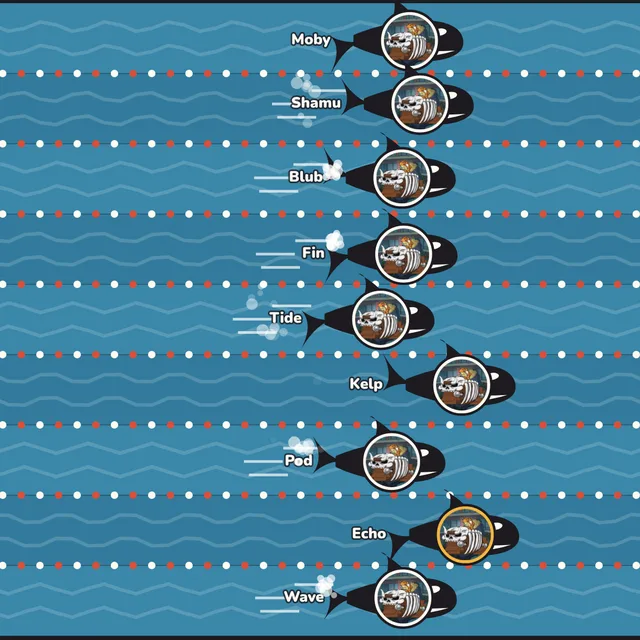
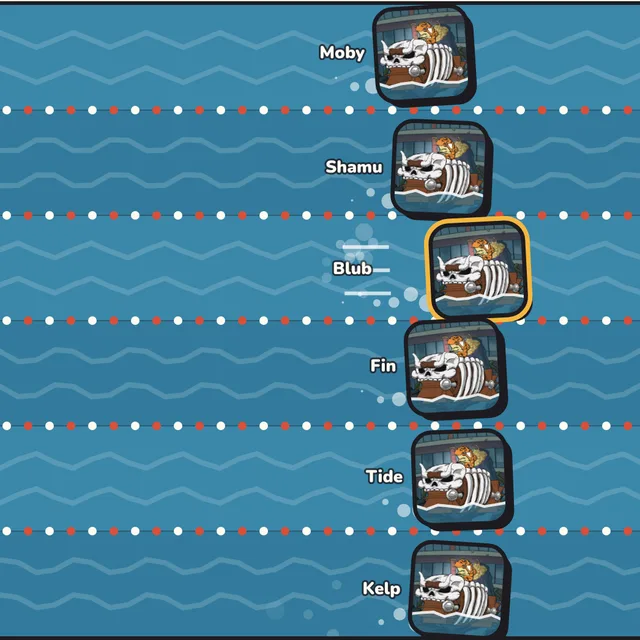
Orca Race: race the orca NFT art itself
Each racer is now its own orca NFT picture on an inked comic sticker card
(thick outline, hard shadow, gold frame for the leader), rocking and
bobbing with water lapping at its base, a foam wake, and speed lines on
bursts. Replaces the drawn black-and-white orca body with a small portrait.
Few racers get bigger cards; crowded races use more screen height and let
cards overlap the lane ropes a little. Race results are unchanged: only
the drawing changed. New arcade cover to match.

Claude-Session: https://claude.ai/code/session_013GKXoySYgxQJ2H2BSpxVen

diff --git a/orca-race.js b/orca-race.js
@@ -448,7 +448,7 @@
         raf = requestAnimationFrame(frame);
     }
 
-    /* each racer's portrait, cut into a circle once (cheap to draw every frame) */
+    /* each racer's orca picture, with the default orca if it won't load */
     function loadPortrait(r) {
         const want = imageFor(r.id);
         const img = new Image();
@@ -461,6 +461,7 @@
         img.src = want;
     }
 
+    /* each racer's NFT art, cut to a rounded card once (cheap to draw every frame) */
     function sprite(r, d) {
         if (!r.img) return null;
         const px = Math.max(8, Math.round(d * layoutInfo.dpr));
@@ -469,8 +470,7 @@
         c.width = c.height = px;
         const g = c.getContext('2d');
         try {
-            g.beginPath();
-            g.arc(px / 2, px / 2, px / 2, 0, Math.PI * 2);
+            rr(g, 0, 0, px, px, px * 0.2);
             g.clip();
             const iw = r.img.naturalWidth || px, ih = r.img.naturalHeight || px;
             const s = Math.max(px / iw, px / ih);
@@ -490,8 +490,8 @@
             const avail = Math.max(120, els.pool.clientHeight);
             laneH = avail / n;
         } else {
-            const avail = Math.min(window.innerHeight * 0.68, 620);
-            laneH = Math.max(16, Math.min(66, avail / n));
+            const avail = n > 12 ? Math.min(window.innerHeight * 0.82, 900) : Math.min(window.innerHeight * 0.68, 620);
+            laneH = Math.max(16, Math.min(86, avail / n));
         }
         const H = Math.round(laneH * n);
         els.canvas.style.height = H + 'px';
@@ -501,7 +501,7 @@
         els.confetti.height = Math.round(H * dpr);
         const startX = Math.max(26, W * 0.045);
         const finishX = W - Math.max(26, W * 0.06);
-        const bodyLen = Math.min(laneH * 2.3, W * 0.13, 150);
+        const bodyLen = Math.max(14, Math.min(laneH * (laneH < 34 ? 1.12 : 0.88), W * 0.13, 110));   // card size; crowded lanes overlap a little
         layoutInfo = { W: W, H: H, laneH: H / n, n: n, dpr: dpr, startX: startX, finishX: finishX, bodyLen: bodyLen };
         R.forEach(function (r) { r.sprite = null; });
     }
@@ -672,31 +672,57 @@
         }
     }
 
+    /* a rounded rectangle path (roundRect isn't in every phone browser yet) */
+    function rr(g, x, y, w, h, rad) {
+        const q = Math.min(rad, w / 2, h / 2);
+        g.beginPath();
+        g.moveTo(x + q, y);
+        g.arcTo(x + w, y, x + w, y + h, q);
+        g.arcTo(x + w, y + h, x, y + h, q);
+        g.arcTo(x, y + h, x, y, q);
+        g.arcTo(x, y, x + w, y, q);
+        g.closePath();
+    }
+
+    /* Each racer IS its orca: the NFT art on a comic sticker card, inked
+       like the collection, bobbing and rocking through the water. */
     function drawOrca(i, s, wall, leading) {
         const L = layoutInfo;
         const g = ctx;
         const r = R[i];
         const pos = Sim.posAt(race.racers[i], s);
-        const len = L.bodyLen;
-        const h = Math.max(5, Math.min(L.laneH * 0.36, len * 0.2));   // half the body's height
-        const nose = L.startX + pos * (L.finishX - L.startX);
-        const bob = Math.sin(wall * 4.2 + r.phase) * L.laneH * 0.07;
-        const cy = i * L.laneH + L.laneH / 2 + bob;
-        const tail = nose - len;
+        const c = L.bodyLen;                                   // the card's size
+        const nose = L.startX + c + pos * (L.finishX - L.startX - c);  // the card's front edge
         const moving = phase === 'race' && pos < 1.04;
-        const flap = Math.sin(wall * (moving ? 11 : 4) + r.phase) * h * 0.7;
         const bursting = phase === 'race' && Sim.burstingAt(race.racers[i], s) && pos < 1;
-        const lw = Math.max(1.2, h * 0.14);
+        const bob = Math.sin(wall * 4.2 + r.phase) * L.laneH * 0.06;
+        const cx = nose - c / 2;
+        const cy = i * L.laneH + L.laneH / 2 + bob;
+        const tilt = Math.sin(wall * 3.1 + r.phase) * (moving ? 0.07 : 0.03) - (bursting ? 0.1 : 0);
+        const ink = Math.max(1.5, c * 0.045);
+        const back = nose - c;
 
+        /* the wake: foam puffs trailing behind, longer on a burst */
+        if (moving) {
+            const puffs = bursting ? 6 : 3;
+            g.fillStyle = 'rgba(255,255,255,0.55)';
+            for (let k = 0; k < puffs; k++) {
+                const f = ((wall * (bursting ? 2.6 : 1.4) + k / puffs + r.phase) % 1);
+                const px = back + c * 0.1 - f * c * (bursting ? 1.1 : 0.6);
+                const py = cy + c * 0.32 + Math.sin(k * 2.1 + wall * 5) * c * 0.06;
+                const pr = Math.max(1, c * 0.11 * (1 - f));
+                g.beginPath(); g.arc(px, py, pr, 0, Math.PI * 2); g.fill();
+            }
+        }
         /* speed lines on a burst */
         if (bursting) {
-            g.strokeStyle = 'rgba(255,255,255,0.7)';
-            g.lineWidth = Math.max(1, h * 0.12);
+            g.strokeStyle = 'rgba(255,255,255,0.75)';
+            g.lineWidth = Math.max(1, c * 0.04);
             for (let k = -1; k <= 1; k++) {
-                const x0 = tail - h * 0.4 - (wall * 300 + k * 37) % (h * 2);
+                const x0 = back - c * 0.1 - (wall * 300 + k * 37) % (c * 0.5);
                 g.beginPath();
-                g.moveTo(x0, cy + k * h * 0.6);
-                g.lineTo(x0 - len * 0.35, cy + k * h * 0.6);
+                g.moveTo(x0, cy + k * c * 0.25);
+                g.lineTo(x0 - c * 0.5, cy + k * c * 0.25);
                 g.stroke();
             }
         }
@@ -708,9 +734,10 @@
             g.textAlign = 'right';
             g.textBaseline = 'middle';
             const label = r.name.length > 16 ? r.name.slice(0, 15) + '…' : r.name;
-            const lx = tail - h * 0.9;
+            const lx = back - c * (bursting ? 0.65 : 0.12);
             if (lx > 30) {
                 g.lineWidth = 3;
+                g.lineJoin = 'round';
                 g.strokeStyle = 'rgba(29,27,32,0.8)';
                 g.strokeText(label, lx, cy);
                 g.fillStyle = '#fffaf1';
@@ -718,72 +745,62 @@
             }
         }
 
-        g.lineJoin = 'round';
-        g.lineWidth = lw;
-        g.strokeStyle = '#1d1b20';
-
-        /* tail flukes */
+        /* the card itself, rocking on the swell */
+        const rad = c * 0.2;
+        g.save();
+        g.translate(cx, cy);
+        g.rotate(tilt);
+        /* hard ink shadow, like every sticker on the site */
         g.fillStyle = '#1d1b20';
-        g.beginPath();
-        g.moveTo(tail + h * 0.6, cy);
-        g.quadraticCurveTo(tail - h * 0.2, cy + flap * 0.3, tail - h * 0.9, cy - h * 0.85 + flap);
-        g.quadraticCurveTo(tail - h * 0.35, cy + flap * 0.5, tail - h * 0.9, cy + h * 0.85 + flap);
-        g.quadraticCurveTo(tail - h * 0.2, cy + flap * 0.3, tail + h * 0.6, cy);
+        rr(g, -c / 2 + c * 0.07, -c / 2 + c * 0.07, c, c, rad);
         g.fill();
-
-        /* dorsal fin */
-        const fx = nose - len * 0.52;
-        g.beginPath();
-        g.moveTo(fx - h * 0.55, cy - h * 0.8);
-        g.quadraticCurveTo(fx - h * 0.2, cy - h * 2.0, fx - h * 0.75, cy - h * 2.05);
-        g.quadraticCurveTo(fx + h * 0.4, cy - h * 1.4, fx + h * 0.55, cy - h * 0.8);
-        g.closePath();
-        g.fill();
-
-        /* body */
-        g.beginPath();
-        g.moveTo(nose, cy + h * 0.1);
-        g.bezierCurveTo(nose, cy - h * 1.15, nose - len * 0.55, cy - h * 1.05, tail + h * 0.2, cy - h * 0.2);
-        g.lineTo(tail + h * 0.2, cy + h * 0.2);
-        g.bezierCurveTo(nose - len * 0.55, cy + h * 1.15, nose, cy + h * 1.05, nose, cy + h * 0.1);
-        g.closePath();
-        g.fill();
-        g.stroke();
-
-        /* white belly and eye patch */
-        g.fillStyle = '#fffaf1';
-        g.beginPath();
-        g.moveTo(nose - h * 0.3, cy + h * 0.45);
-        g.quadraticCurveTo(nose - len * 0.4, cy + h * 1.0, nose - len * 0.72, cy + h * 0.35);
-        g.quadraticCurveTo(nose - len * 0.4, cy + h * 0.55, nose - h * 0.3, cy + h * 0.45);
-        g.fill();
-        g.beginPath();
-        g.ellipse(nose - len * 0.2, cy - h * 0.38, h * 0.32, h * 0.16, -0.15, 0, Math.PI * 2);
-        g.fill();
-
-        /* the NFT portrait, in a ring on the body */
-        const d = Math.min(L.laneH * 0.86, h * 2.3, len * 0.46);
-        const px = nose - len * 0.47;
-        const ringW = Math.max(1.5, d * 0.08);
-        g.fillStyle = leading ? '#f4b740' : '#fffaf1';
-        g.beginPath(); g.arc(px, cy, d / 2 + ringW, 0, Math.PI * 2); g.fill();
-        g.lineWidth = Math.max(1, lw * 0.8);
-        g.stroke();
-        const sp = sprite(r, d);
+        if (leading) {
+            g.fillStyle = '#f4b740';
+            rr(g, -c / 2 - ink * 1.6, -c / 2 - ink * 1.6, c + ink * 3.2, c + ink * 3.2, rad + ink * 1.6);
+            g.fill();
+        }
+        const sp = sprite(r, c);
         if (sp) {
-            g.drawImage(sp, px - d / 2, cy - d / 2, d, d);
+            g.drawImage(sp, -c / 2, -c / 2, c, c);
         } else {
             g.fillStyle = '#a1c0d6';
-            g.beginPath(); g.arc(px, cy, d / 2, 0, Math.PI * 2); g.fill();
+            rr(g, -c / 2, -c / 2, c, c, rad);
+            g.fill();
         }
+        /* water lapping at the bottom of the card */
+        g.save();
+        rr(g, -c / 2, -c / 2, c, c, rad);
+        g.clip();
+        const wl = c * 0.3 + Math.sin(wall * 5 + r.phase) * c * 0.03;
+        g.fillStyle = 'rgba(58,135,169,0.55)';
+        g.beginPath();
+        g.moveTo(-c / 2, wl);
+        for (let x = -c / 2; x <= c / 2 + 1; x += Math.max(2, c / 8)) {
+            g.lineTo(x, wl + Math.sin(x * 0.25 + wall * 6 + r.phase) * c * 0.025);
+        }
+        g.lineTo(c / 2, c / 2);
+        g.lineTo(-c / 2, c / 2);
+        g.closePath();
+        g.fill();
+        g.strokeStyle = 'rgba(255,255,255,0.85)';
+        g.lineWidth = Math.max(1, c * 0.03);
+        g.stroke();
+        g.restore();
+        /* the ink outline */
+        g.lineWidth = ink;
+        g.strokeStyle = '#1d1b20';
+        g.lineJoin = 'round';
+        rr(g, -c / 2, -c / 2, c, c, rad);
+        g.stroke();
+        g.restore();
 
         /* place badge once finished */
         if (r.place) {
-            const bd = Math.max(12, Math.min(26, L.laneH * 0.55));
-            const bx = nose + bd * 0.2, by = cy - L.laneH * 0.2;
+            const bd = Math.max(12, Math.min(26, c * 0.38));
+            const bx = nose, by = cy - c / 2 + bd * 0.15;
             g.fillStyle = r.place === 1 ? '#f4b740' : r.place === 2 ? '#bec4c3' : r.place === 3 ? '#ba976a' : '#fffaf1';
             g.beginPath(); g.arc(bx, by, bd / 2, 0, Math.PI * 2); g.fill();
-            g.lineWidth = 1.5; g.stroke();
+            g.lineWidth = 1.5; g.strokeStyle = '#1d1b20'; g.stroke();
             g.fillStyle = '#1d1b20';
             g.font = '900 ' + Math.round(bd * 0.58) + 'px Nunito, sans-serif';
             g.textAlign = 'center';
@@ -823,7 +840,7 @@
         if (!layoutInfo || !cosmetic) return;
         const L = layoutInfo;
         const pos = Sim.posAt(race.racers[lane], stepAt(raceT));
-        const x = L.startX + pos * (L.finishX - L.startX) - L.bodyLen * 0.9;
+        const x = L.startX + pos * (L.finishX - L.startX - L.bodyLen);
         const y = lane * L.laneH + L.laneH / 2;
         for (let k = 0; k < count && spray.length < 400; k++) {
             spray.push({
